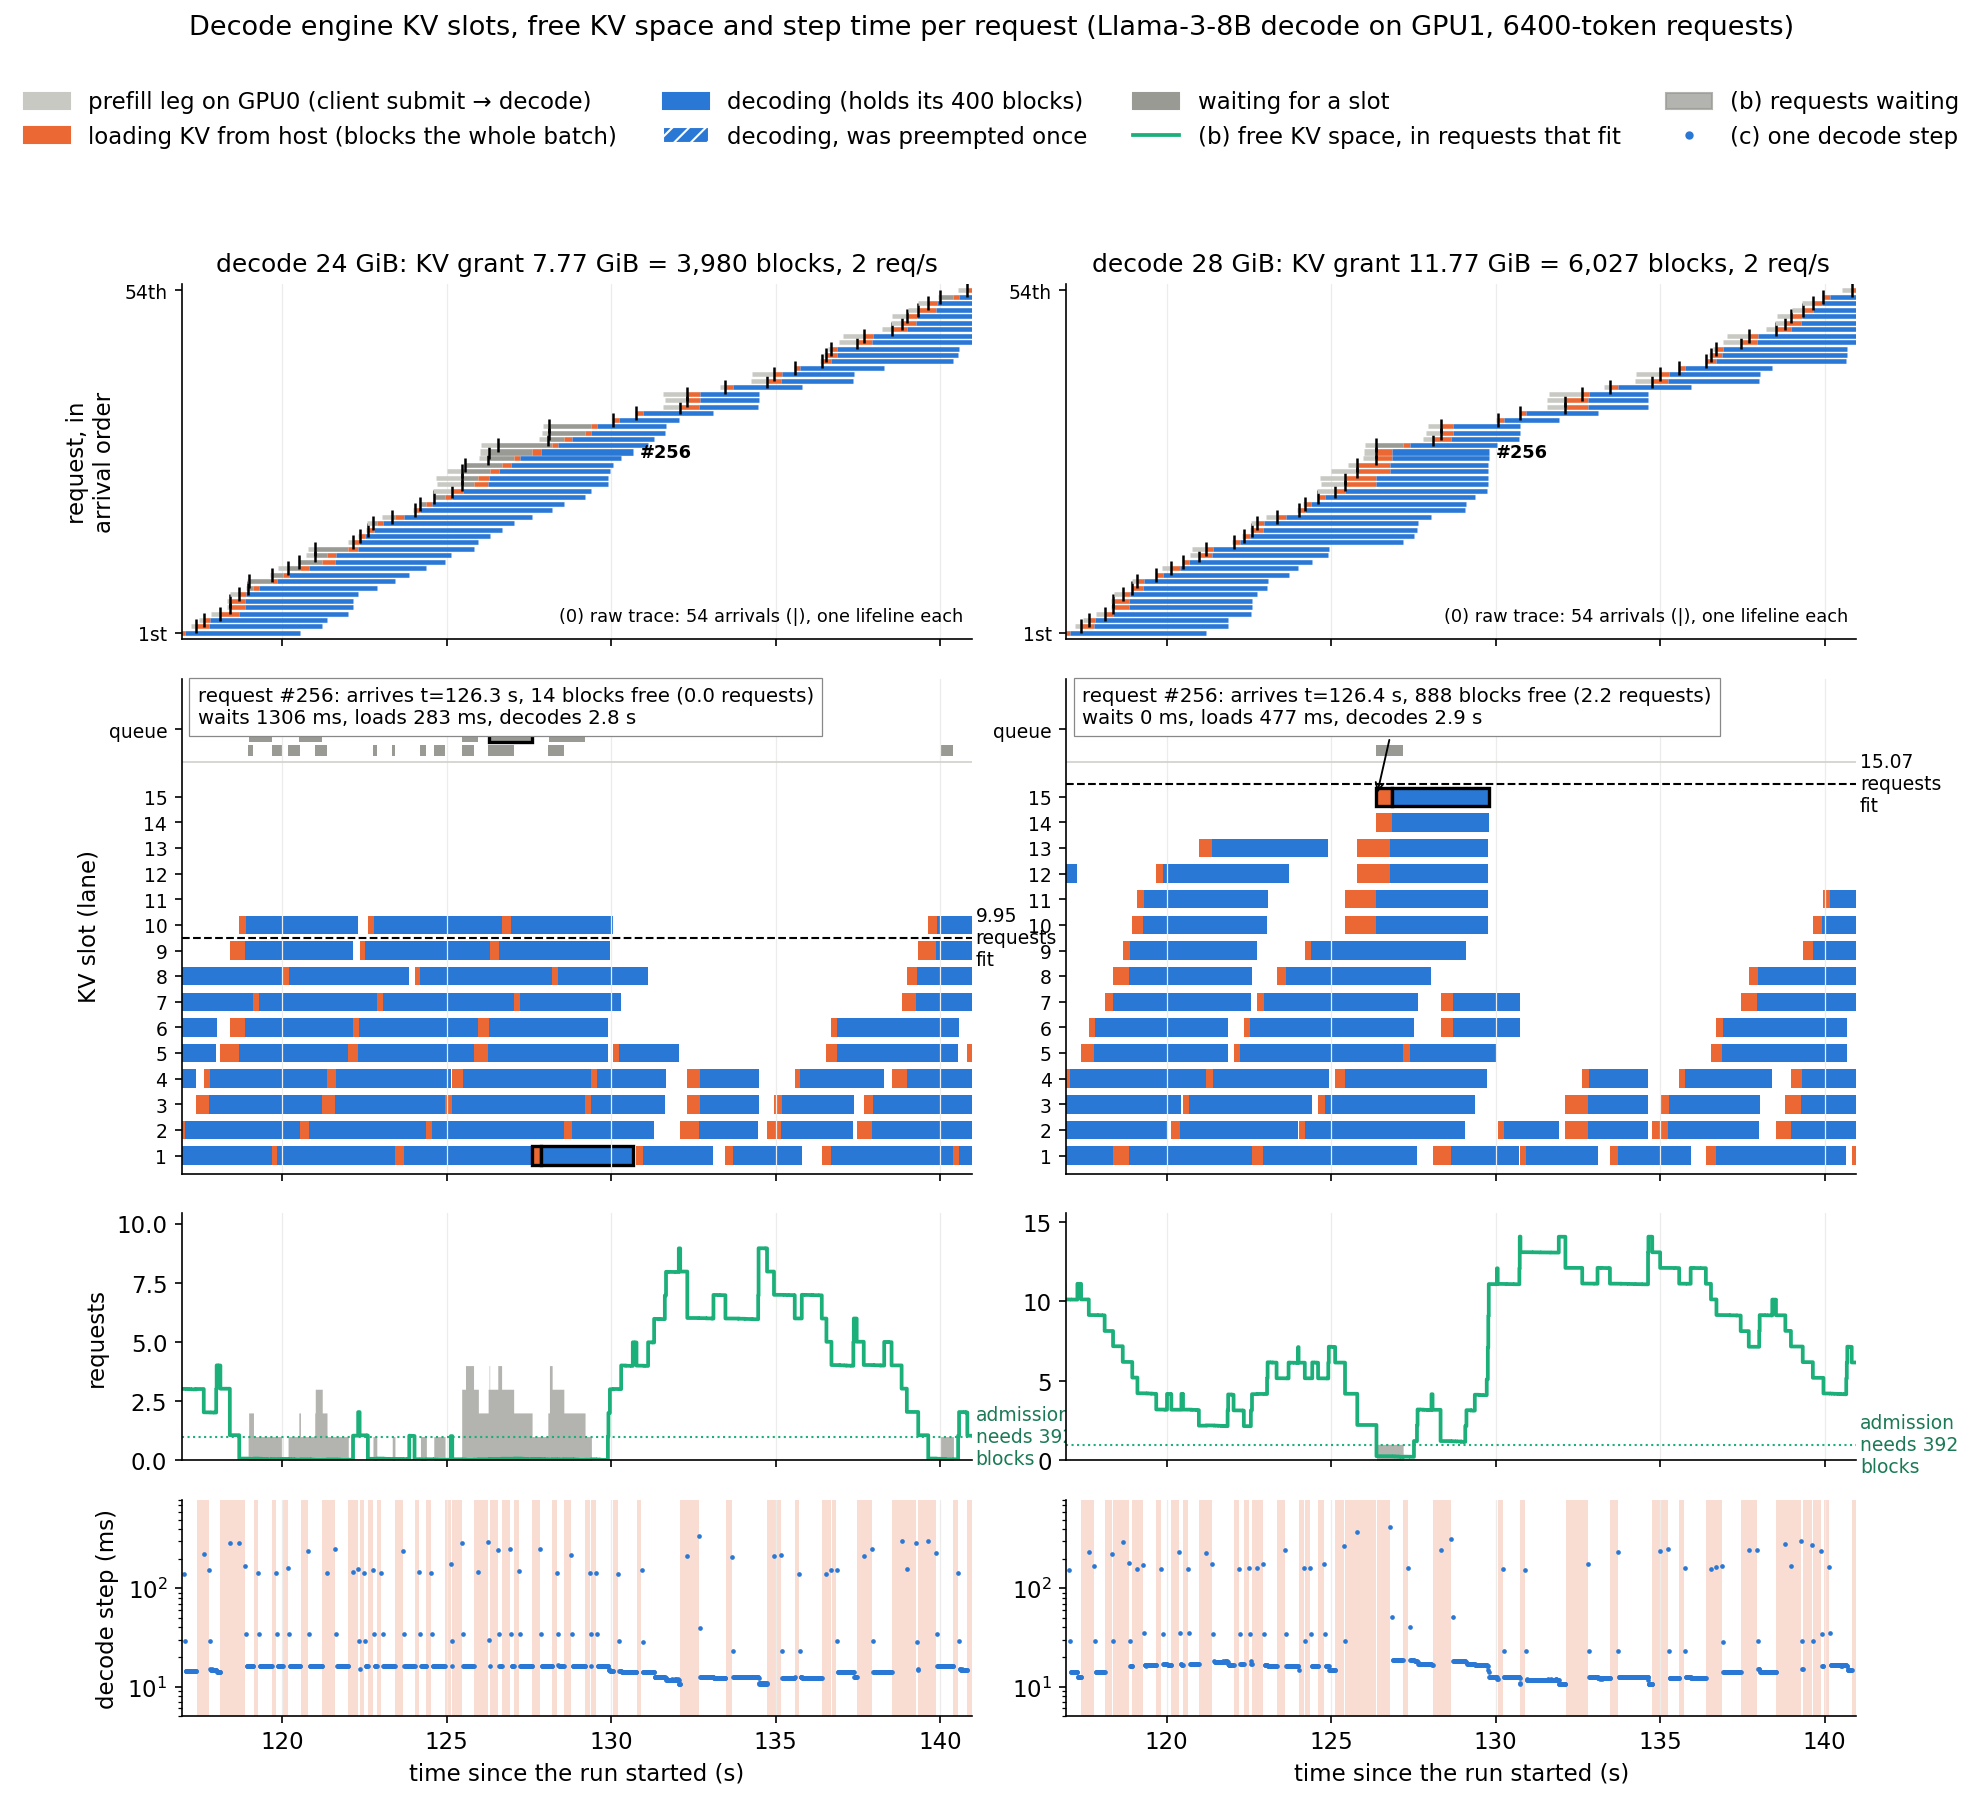
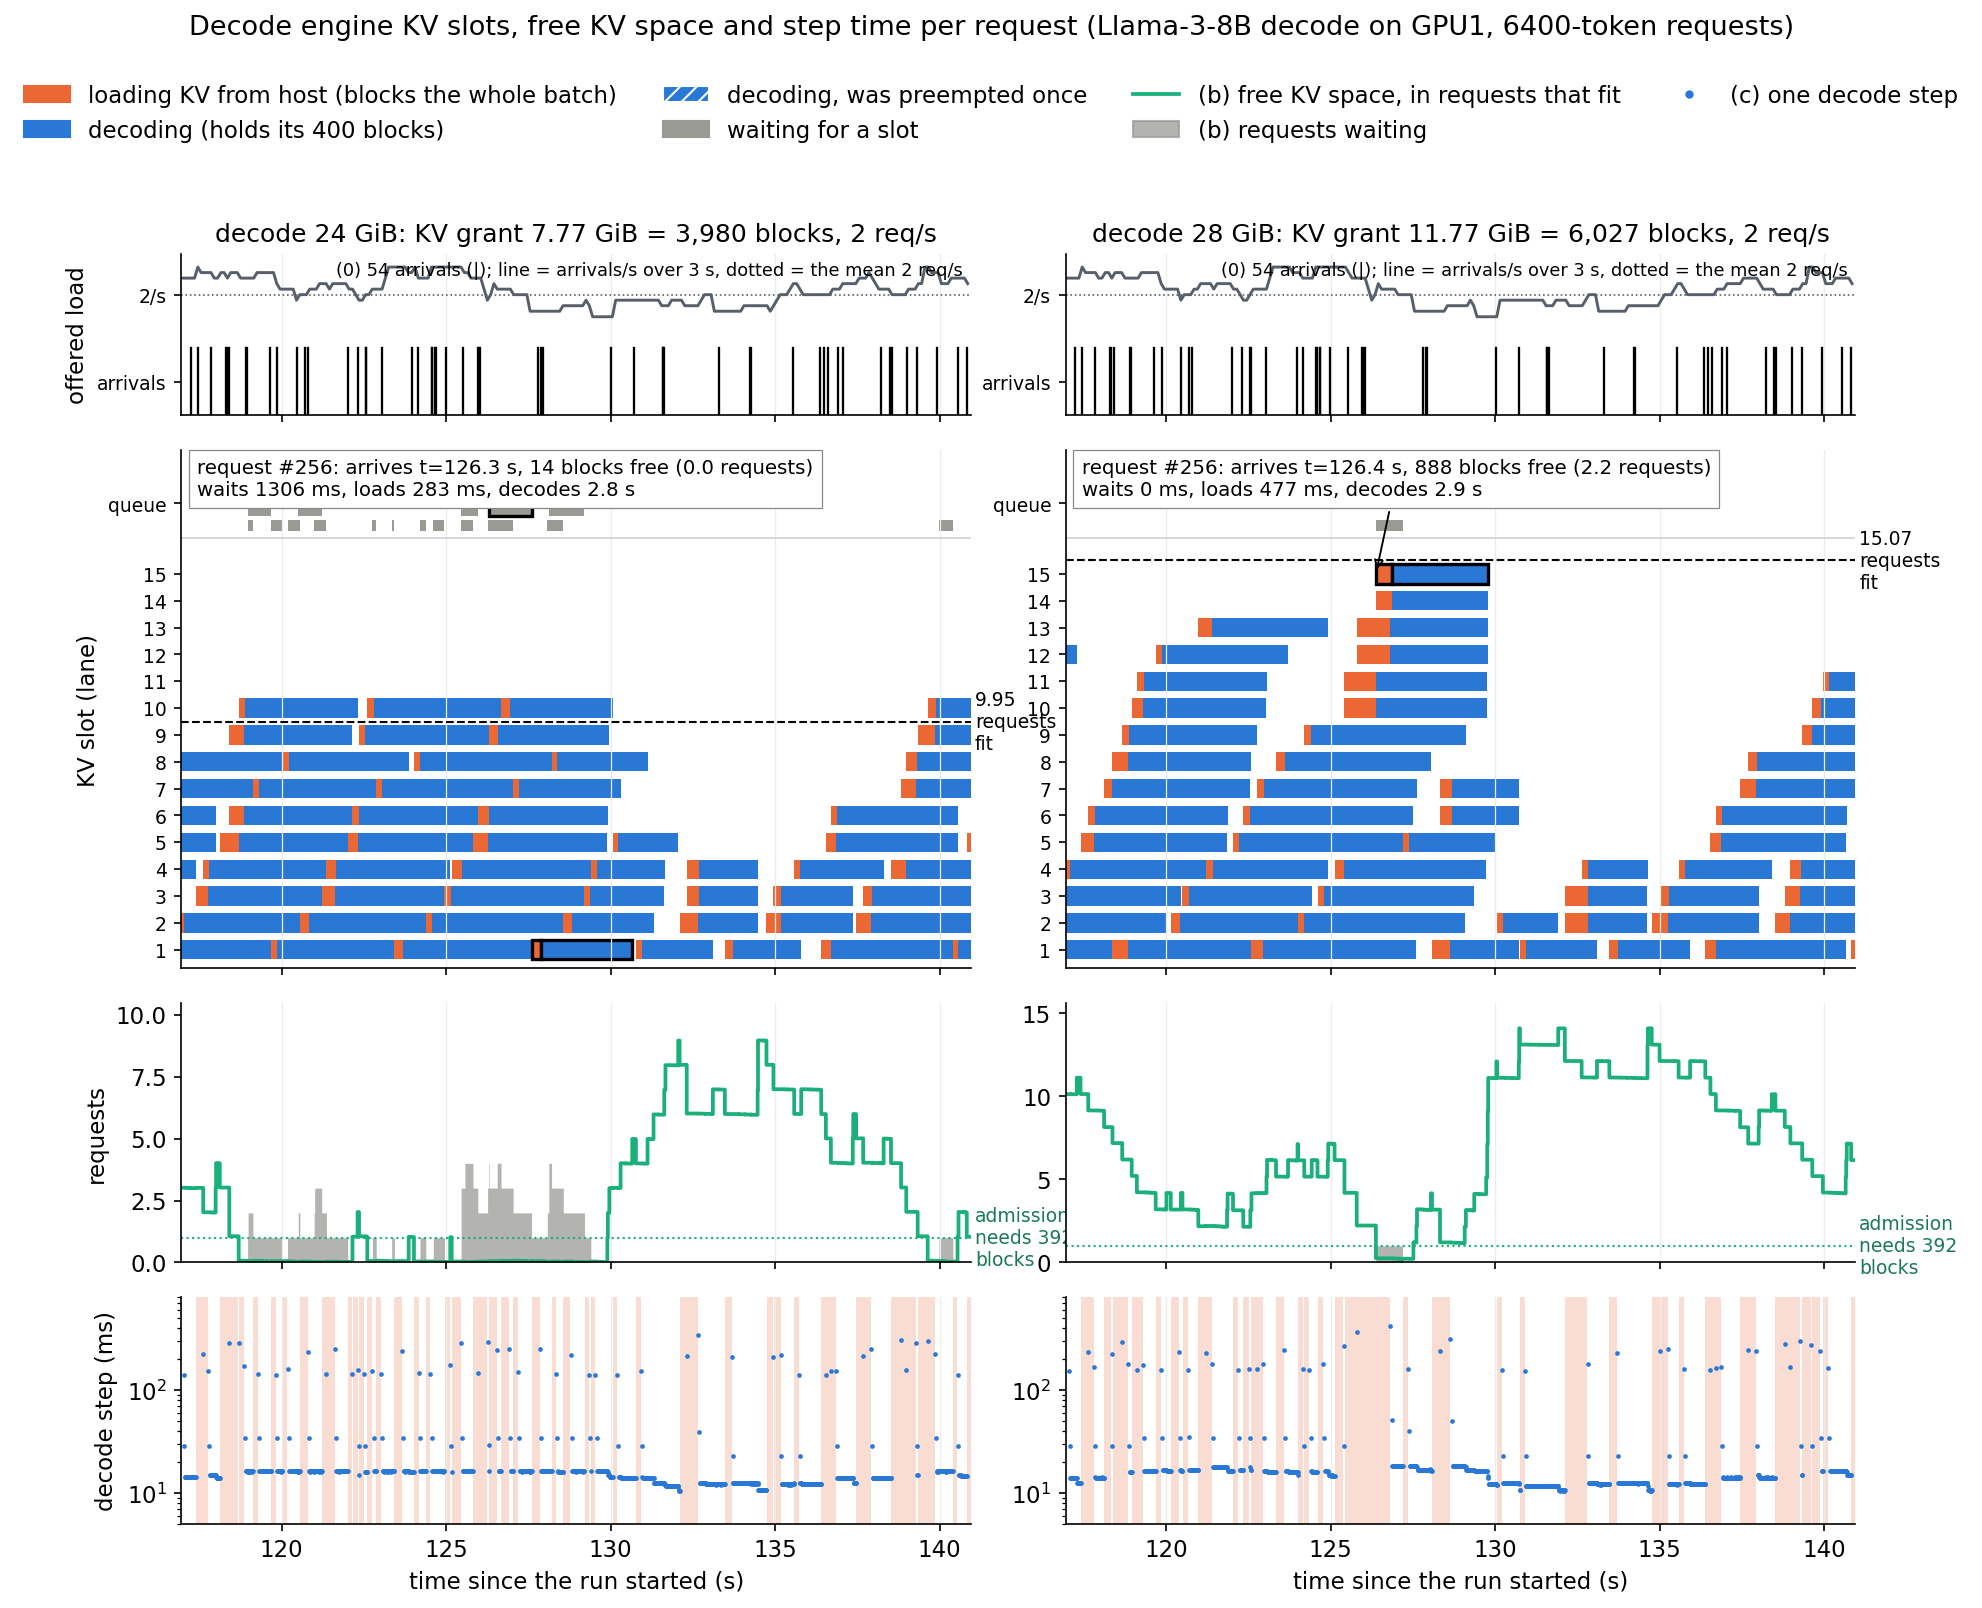
KV-slot study: slot timeline — top row shows arrivals only (ticks + 3 s rate)

Changed region(s): [[0.0308, 0.1244, 0.9849, 0.995], [0.0, 0.0, 0.9849, 0.0933]]

diff --git a/scripts/plots/plot_kv_timeline.py b/scripts/plots/plot_kv_timeline.py
@@ -107,8 +107,8 @@ def main():
             args.follow = max(cand, key=lambda r: r["s"] - r["a"])["index"]
 
     ncol = len(data)
-    fig, axes = plt.subplots(4, ncol, figsize=(7.2 * ncol, 12.4), sharex=True,
-                             gridspec_kw={"height_ratios": [2.3, 3.2, 1.6, 1.4], "hspace": 0.12,
+    fig, axes = plt.subplots(4, ncol, figsize=(7.2 * ncol, 11.0), sharex=True,
+                             gridspec_kw={"height_ratios": [1.0, 3.2, 1.6, 1.4], "hspace": 0.12,
                                           "wspace": 0.12}, squeeze=False)
     ymax_lane = max(max(lanes(d[1]).values()) + 1 for d in data)
     qmax = 0
@@ -120,28 +120,26 @@ def main():
     for j, (rec, rq, st, steps, loads, slots, blocks) in enumerate(data):
         r0, a, b, c = axes[0, j], axes[1, j], axes[2, j], axes[3, j]
         ln = lanes(rq)
-        # (0) the raw trace: one lifeline per request, in arrival order, no lane packing
-        win = sorted([r for r in rq if r["a"] >= t0 - 0.5 and r["a"] <= t1], key=lambda r: r["a"])
-        for k, r in enumerate(win):
-            fol = r["index"] == args.follow
-            lw = 3.2 if fol else 2.2
-            if not np.isnan(r["sub"]):
-                r0.plot([r["sub"], r["a"]], [k, k], color="#c9c9c4", lw=lw, solid_capstyle="butt")
-            r0.plot([r["a"], r["s"]], [k, k], color=C_WAIT, lw=lw, solid_capstyle="butt")
-            r0.plot([r["s"], r["f"]], [k, k], color=C_LOAD, lw=lw, solid_capstyle="butt")
-            r0.plot([r["f"], r["e"]], [k, k], color=C_DEC, lw=lw, solid_capstyle="butt")
-            r0.plot([r["a"]], [k], marker="|", color="black", ms=7, mew=1.2)
-            if fol:
-                r0.text(r["e"] + 0.2, k, f"#{r['index']}", fontsize=8.5, va="center", fontweight="bold")
-        r0.set_ylim(-1, len(win))
-        r0.set_yticks([0, len(win) - 1] if win else [])
-        r0.set_yticklabels(["1st", f"{len(win)}th"] if win else [], fontsize=9)
+        # (0) the arrival process alone: one tick per submitted request, plus a 3 s sliding
+        # arrival rate -- the offered load that the rows below respond to
+        subs = np.array(sorted(r["sub"] for r in rq if not np.isnan(r["sub"])))
+        win = [x for x in subs if t0 <= x <= t1]
+        for x in win:
+            r0.plot([x, x], [0, 1], color="black", lw=1.1)
+        grid = np.arange(t0, t1, 0.1)
+        rate = np.array([((subs > g - 1.5) & (subs <= g + 1.5)).sum() / 3.0 for g in grid])
+        r0.plot(grid, rate / max(rate.max(), 1e-9) * 0.9 + 1.3, color=C_Q, lw=1.4)
+        r0.axhline(rec["qps"] / max(rate.max(), 1e-9) * 0.9 + 1.3, color=C_Q, lw=0.8, ls=":")
+        r0.set_ylim(0, 2.4)
+        r0.set_yticks([0.5, 1.3 + 0.9 * rec["qps"] / max(rate.max(), 1e-9)])
+        r0.set_yticklabels(["arrivals", f"{rec['qps']:g}/s"], fontsize=9)
         if j == 0:
-            r0.set_ylabel("request, in\narrival order")
+            r0.set_ylabel("offered load")
+        r0.text(0.99, 0.95, f"(0) {len(win)} arrivals (|); line = arrivals/s over 3 s, "
+                f"dotted = the mean {rec['qps']:g} req/s", transform=r0.transAxes, fontsize=8.5,
+                va="top", ha="right")
         r0.set_title(f"decode {rec['budget_gib']:g} GiB: KV grant {rec['launch']['decode']['kv_gib']:.2f} GiB"
                      f" = {blocks:,} blocks, {rec['qps']:g} req/s")
-        r0.text(0.99, 0.04, f"(0) raw trace: {len(win)} arrivals (|), one lifeline each",
-                transform=r0.transAxes, fontsize=8.5, va="bottom", ha="right")
         # (a) slots
         waiting = sorted([r for r in rq if r["s"] - r["a"] > 0.02 and r["s"] > t0 and r["a"] < t1],
                          key=lambda r: r["a"])
@@ -218,8 +216,7 @@ def main():
     for ax in axes.flat:
         ax.spines[["top", "right"]].set_visible(False)
         ax.grid(axis="x", color="#ececea", lw=0.6)
-    handles = [Patch(color="#c9c9c4", label="prefill leg on GPU0 (client submit → decode)"),
-               Patch(color=C_LOAD, label="loading KV from host (blocks the whole batch)"),
+    handles = [Patch(color=C_LOAD, label="loading KV from host (blocks the whole batch)"),
                Patch(color=C_DEC, label="decoding (holds its 400 blocks)"),
                Patch(fc=C_DEC, hatch="///", ec="white", label="decoding, was preempted once"),
                Patch(color=C_WAIT, label="waiting for a slot"),
